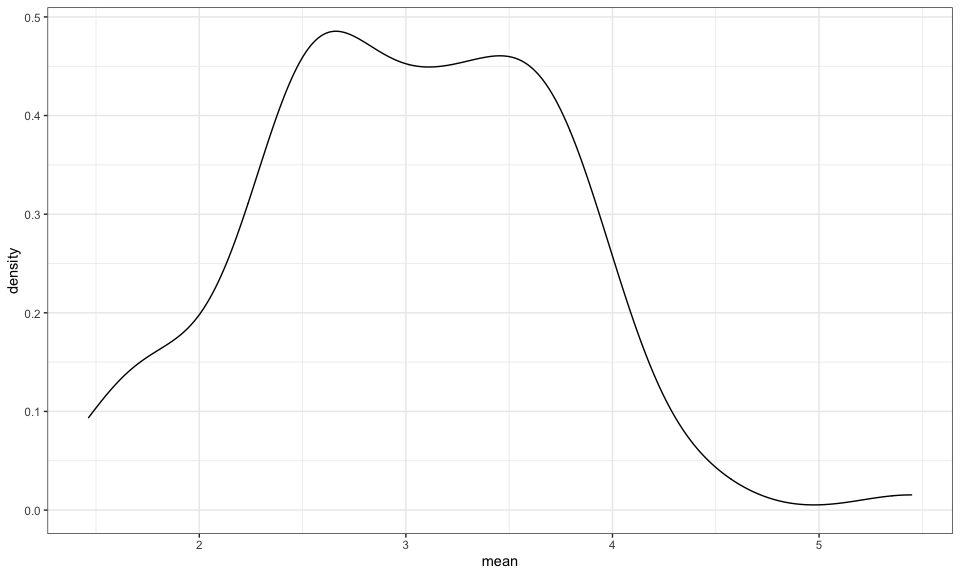
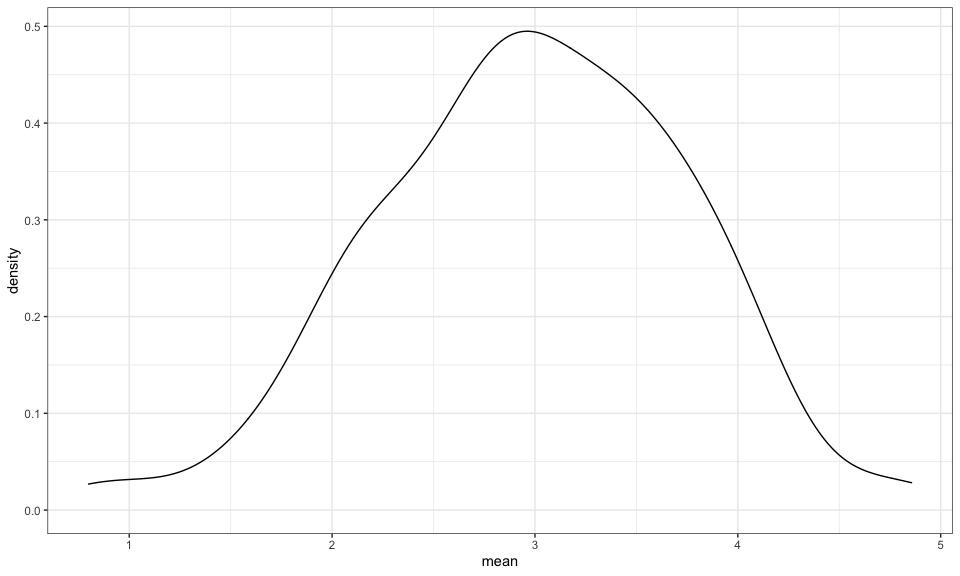
more simulations

diff --git a/simulations.md b/simulations.md
@@ -51,6 +51,8 @@ options(
 
 scale_colour_discrete = scale_colour_viridis_d()
 scale_fill_discrete = scale_fill_viridis_d()
+
+set.seed(1)
 ```
 
 ## Sample simulation
@@ -82,7 +84,7 @@ sim_mean_sd(30)
     ## # A tibble: 1 x 2
     ##    mean    sd
     ##   <dbl> <dbl>
-    ## 1  3.22  3.54
+    ## 1  3.33  3.70
 
 ## Let’s simulate a lot
 
@@ -103,16 +105,16 @@ bind_rows(output)
     ## # A tibble: 100 x 2
     ##     mean    sd
     ##    <dbl> <dbl>
-    ##  1  3.87  3.61
-    ##  2  2.43  4.24
-    ##  3  2.97  4.25
-    ##  4  3.63  4.24
-    ##  5  3.41  4.16
-    ##  6  3.49  4.25
-    ##  7  2.53  5.01
-    ##  8  4.44  3.46
-    ##  9  3.04  3.71
-    ## 10  2.75  3.56
+    ##  1  3.53  3.18
+    ##  2  3.44  3.84
+    ##  3  3.45  3.53
+    ##  4  1.68  3.69
+    ##  5  3.95  4.22
+    ##  6  3.27  4.34
+    ##  7  2.05  4.05
+    ##  8  3.10  3.72
+    ##  9  3.55  4.11
+    ## 10  3.87  3.79
     ## # … with 90 more rows
 
 This Above doesn’t have input list, just has output list. Can use map to
@@ -148,7 +150,7 @@ sim_results %>%
     ## # A tibble: 1 x 2
     ##   avg_samp_mean sd_samp_mean
     ##           <dbl>        <dbl>
-    ## 1          3.00        0.723
+    ## 1          2.98        0.756
 
 ``` r
 sim_results %>% 
@@ -156,3 +158,82 @@ sim_results %>%
 ```
 
 <img src="simulations_files/figure-gfm/unnamed-chunk-5-2.png" width="90%" />
+
+## Let’s try other sample sizes
+
+Many things in statistics are dependent on sample size. Start with `for`
+loop to make easier.
+
+Want to run sim code 100x for each of below n’s and save results each
+time. Output object should match size input object so can make into
+tibble.
+
+``` r
+n_list = 
+  list(
+    "n = 30" = 30,
+    "n = 60" = 60,
+    "n = 120" = 120,
+    "n = 240" = 240
+  )
+
+output = vector("list", length = 4)
+
+for (i in 1:4) {
+  
+  output[[i]] = rerun(100, sim_mean_sd(samp_size = n_list[[i]])) %>% 
+    bind_rows()
+
+}
+```
+
+Put this in a simpler process
+
+``` r
+sim_results_1 = 
+  tibble(
+  samp_size = c(30, 60, 120, 240)
+  ) %>% 
+  mutate(
+    output_lists = map(.x = samp_size, ~ rerun(1000, sim_mean_sd(.x))),
+    estimate_df = map(output_lists, bind_rows)
+  ) %>% 
+  select(-output_lists) %>% 
+  unnest(estimate_df)
+```
+
+Do some dataframe things
+
+``` r
+sim_results_1 %>% 
+  mutate(
+    sample_size = str_c("n = ", samp_size),
+    sample_size = fct_inorder(sample_size)
+  ) %>% 
+  ggplot(aes(x = sample_size, y = mean)) + 
+  geom_violin()
+```
+
+<img src="simulations_files/figure-gfm/unnamed-chunk-8-1.png" width="90%" />
+
+``` r
+sim_results_1 %>% 
+  group_by(samp_size) %>% 
+  summarize(
+    avg_samp_mean = mean(mean),
+    sd_samp_mean = sd(mean)
+  )
+```
+
+    ## `summarise()` ungrouping output (override with `.groups` argument)
+
+    ## # A tibble: 4 x 3
+    ##   samp_size avg_samp_mean sd_samp_mean
+    ##       <dbl>         <dbl>        <dbl>
+    ## 1        30          2.99        0.720
+    ## 2        60          3.02        0.514
+    ## 3       120          2.99        0.374
+    ## 4       240          3.00        0.263
+
+Can do `cache` in {r} to set the results of sim when knit. Or can do
+`set.seed(1)` to get same random numbers.
